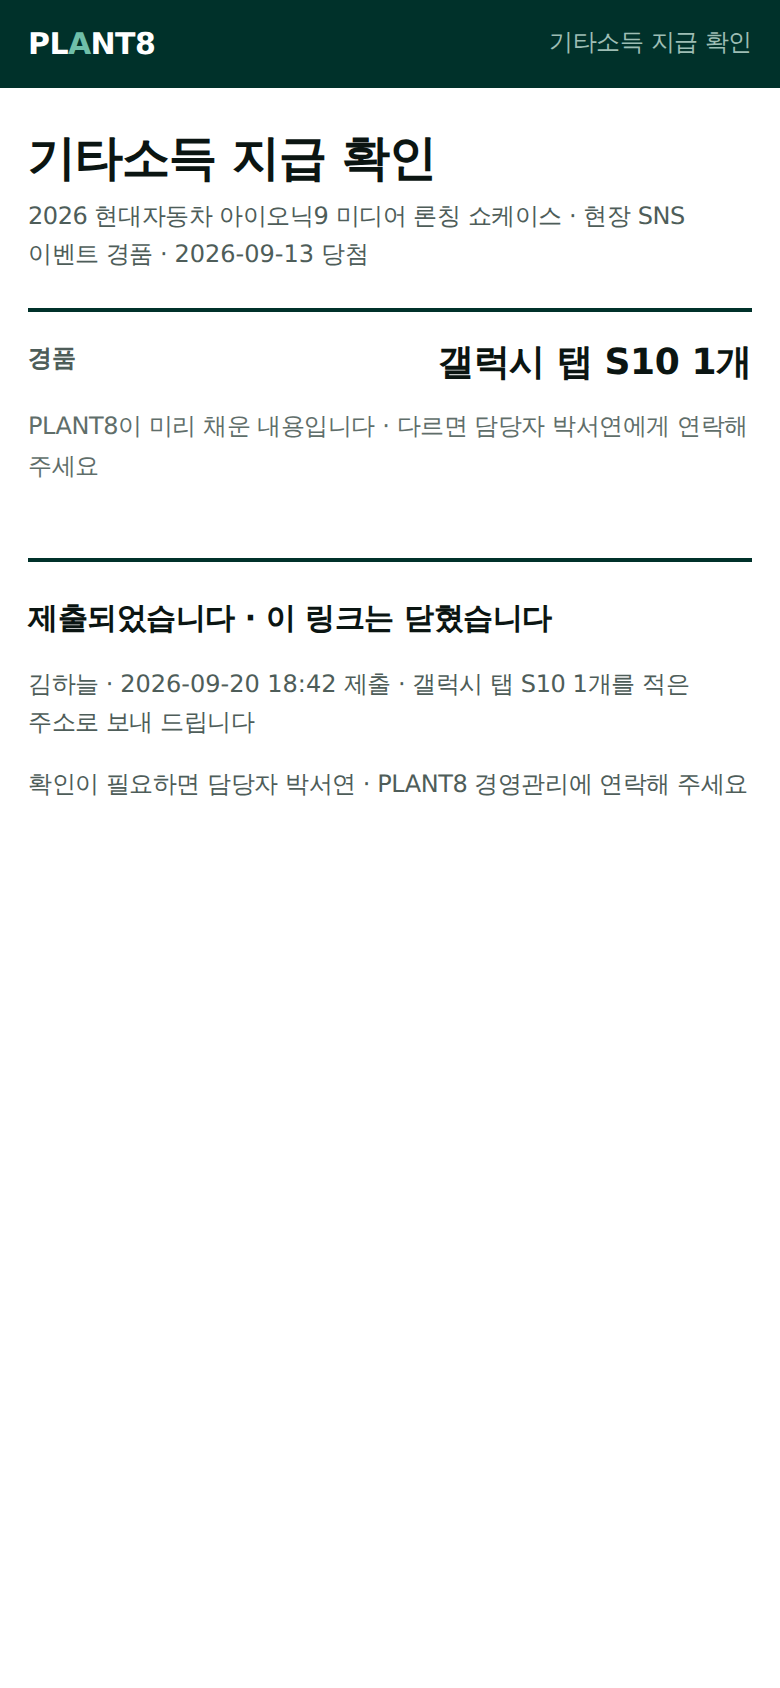
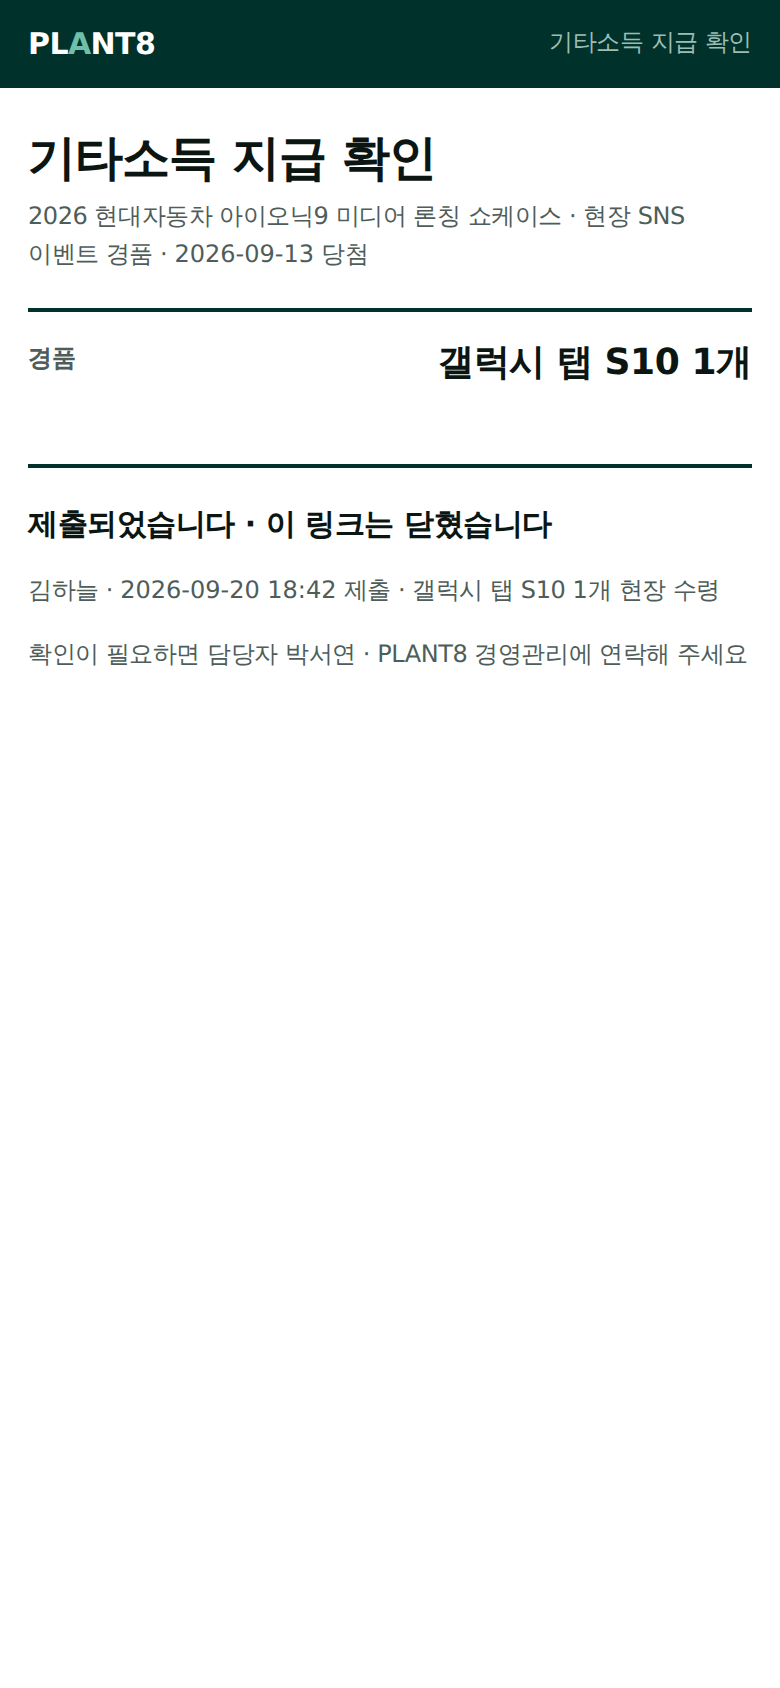
docs: 외부 수령자 화면 — 「미리 채운」 안내 삭제, 주소는 택배일 때만(#post 장면)
사용자 결정(2026-09-18): 경품은 거의 현장에서 주므로 기본은 주소 칸
없음. 담당자가 링크를 만들 때 택배로 정하면 주소 칸·막힘 이유·동의
문장의 수집 항목에 주소가 들어간다.

Claude-Session: https://claude.ai/code/session_01MwoSZSUG1tWADvG16RK3Ss

diff --git a/docs/design/system/external-cert.html b/docs/design/system/external-cert.html
@@ -12,7 +12,8 @@
    #error        주민등록번호 형식 오류 · ~해 주세요체
    #done         제출됨 · 링크 닫힘 (PDF 링크 없음 = v1)
    #expired      이미 제출된 링크로 재진입
-   2026-09-18 사용자: 기타소득은 거의 경품(현물)이라 지급액·계좌를 빼고 경품명만 보인다(시가·원천징수·제세공과금 줄 없음).
+   #post         택배 전달일 때 — 주소 칸이 보인다(담당자가 링크 만들 때 정함). 기본은 현장 수령: 주소 칸 없음
+   2026-09-18 사용자: 기타소득은 거의 경품(현물)이라 지급액·계좌를 빼고 경품명만 보인다(시가·원천징수·제세공과금·「미리 채운」 안내 없음). 주소는 택배일 때만.
    이 화면만 본문 --fs-md · 입력 48px · 한 열. 나머지 규칙(직각·틴트·색)은 그대로. 컴포넌트는 tokens.css 변수만 참조한다. 앱 코드가 아니다. */
 *{box-sizing:border-box;margin:0;padding:0}
 html{font-size:var(--fs-md)}
@@ -79,6 +80,10 @@ h1{font-size:var(--fs-xl);font-weight:var(--fw-bold);letter-spacing:var(--ls-hea
 .state p{margin-bottom:var(--s-3)}
 .state .who{font-size:var(--fs-sm);color:var(--muted)}
 
+.row-addr,.only-post{display:none}
+body[data-post] .row-addr{display:block}
+body[data-post] .only-post{display:inline}
+body[data-post] .only-site{display:none}
 /* 장면 */
 body[data-scene="empty"] .s-sign,body[data-scene="empty"] .s-error,body[data-scene="empty"] .s-done,body[data-scene="empty"] .s-expired{display:none}
 body[data-scene="sign"] .s-empty,body[data-scene="sign"] .s-error,body[data-scene="sign"] .s-done,body[data-scene="sign"] .s-expired{display:none}
@@ -101,7 +106,6 @@ body[data-scene="error"] .sig svg{display:block}
     <dl>
       <dt>경품</dt><dd class="big">갤럭시 탭 S10 <span class="num">1</span>개</dd>
     </dl>
-    <p class="ro">PLANT8이 미리 채운 내용입니다 · 다르면 담당자 박서연에게 연락해 주세요</p>
   </section>
 
   <form class="form" onsubmit="return false">
@@ -110,14 +114,14 @@ body[data-scene="error"] .sig svg{display:block}
       <div class="two"><input id="rrn1" class="inp num" inputmode="numeric" placeholder="930412" maxlength="6"><span class="dash">-</span><input id="rrn2" class="inp num" inputmode="numeric" type="password" placeholder="•••••••" maxlength="7"></div>
       <div class="ferr s-error">주민등록번호 형식이 아닙니다 · 앞 6자리, 뒤 7자리를 적어 주세요</div>
     </div>
-    <div class="row"><label for="addr">주소 <span class="lbl-sub">경품 받을 곳</span></label><input id="addr" class="inp" placeholder="도로명 주소"></div>
+    <div class="row row-addr"><label for="addr">주소 <span class="lbl-sub">택배로 보내 드립니다</span></label><input id="addr" class="inp" placeholder="도로명 주소"></div>
     <div class="row"><label for="tel">연락처</label><input id="tel" class="inp num" inputmode="tel" placeholder="010-0000-0000"></div>
 
     <div class="sep"></div>
 
     <div class="consent">
       <input type="checkbox" id="agree">
-      <label for="agree">개인정보 수집·이용에 동의합니다<small>수집 항목 이름 · 주민등록번호 · 주소 · 연락처 — 기타소득 원천징수 신고와 경품 전달에만 쓰고, 법정 보존 기간(5년) 뒤 파기합니다. 동의하지 않으면 지급이 진행되지 않습니다. <button type="button" class="b3 sm">전문 보기</button></small></label>
+      <label for="agree">개인정보 수집·이용에 동의합니다<small>수집 항목 이름 · 주민등록번호 · <span class="only-post">주소 · </span>연락처 — 기타소득 원천징수 신고와 경품 전달에만 쓰고, 법정 보존 기간(5년) 뒤 파기합니다. 동의하지 않으면 지급이 진행되지 않습니다. <button type="button" class="b3 sm">전문 보기</button></small></label>
     </div>
 
     <div class="sep"></div>
@@ -134,7 +138,7 @@ body[data-scene="error"] .sig svg{display:block}
 
   <section class="state s-done" aria-live="polite">
     <p><b>제출되었습니다 · 이 링크는 닫혔습니다</b></p>
-    <p class="who">김하늘 · <span class="num">2026-09-20 18:42</span> 제출 · 갤럭시 탭 S10 <span class="num">1</span>개를 적은 주소로 보내 드립니다</p>
+    <p class="who">김하늘 · <span class="num">2026-09-20 18:42</span> 제출 · 갤럭시 탭 S10 <span class="num">1</span>개 <span class="only-site">현장 수령</span><span class="only-post">적은 주소로 보내 드립니다</span></p>
     <p class="who">확인이 필요하면 담당자 박서연 · PLANT8 경영관리에 연락해 주세요</p>
   </section>
 
@@ -144,7 +148,7 @@ body[data-scene="error"] .sig svg{display:block}
   </section>
 <div class="submit">
   <button class="btn" disabled aria-describedby="why">확인증 제출</button>
-  <span class="blocked s-empty" id="why">이름 · 주민등록번호 · 주소 · 연락처 · 동의 · 서명을 채우면 제출할 수 있습니다</span>
+  <span class="blocked s-empty" id="why">이름 · 주민등록번호 · <span class="only-post">주소 · </span>연락처 · 동의 · 서명을 채우면 제출할 수 있습니다</span>
   <span class="blocked s-sign">서명을 해 주세요</span>
   <span class="blocked s-error">주민등록번호를 고쳐 주세요 · 나머지는 채워졌습니다</span>
 </div>
@@ -153,6 +157,7 @@ body[data-scene="error"] .sig svg{display:block}
 <script>
 (function(){
   var h=location.hash.slice(1);
+  if(h==='post'){document.body.dataset.post='1';h='empty'}
   if(['empty','sign','error','done','expired'].includes(h))document.body.dataset.scene=h;
   if(h==='sign'||h==='error'){
     var v={name:'김하늘',rrn1:'930412',rrn2:'2345678',addr:'서울특별시 마포구 월드컵북로 396, 누리꿈스퀘어 비즈니스타워 1203호',tel:'010-4821-7730'};
